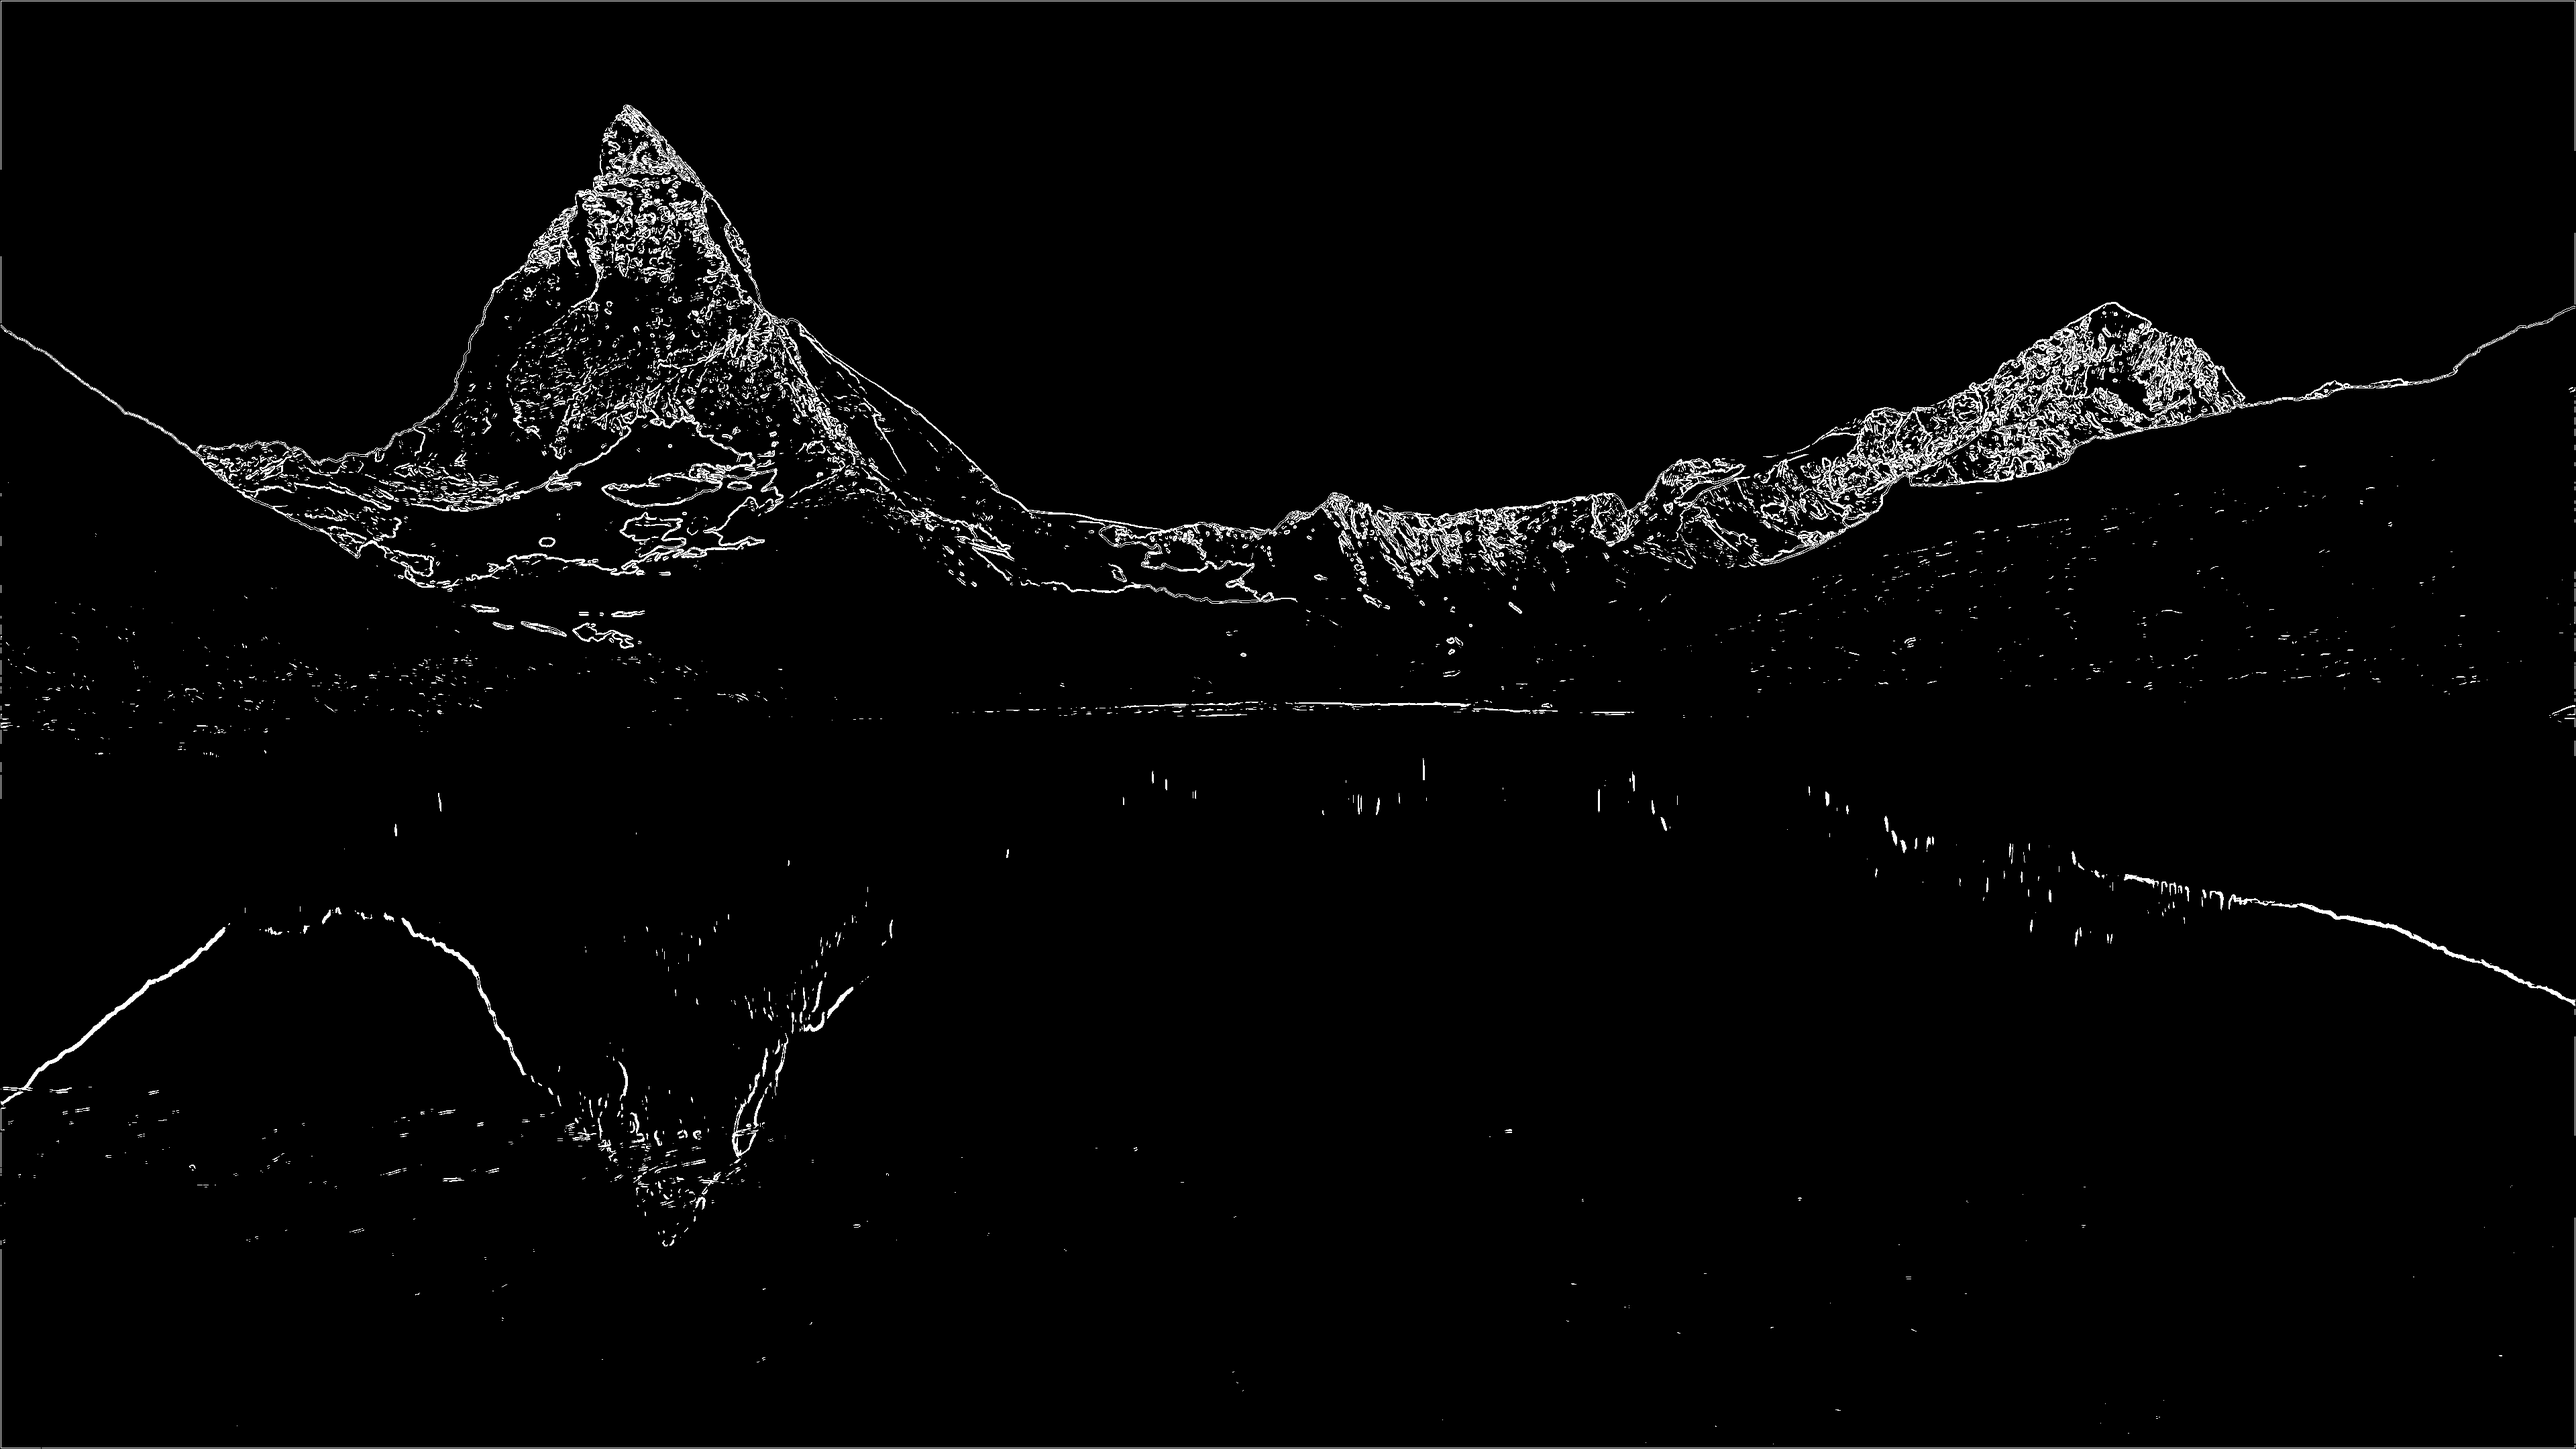
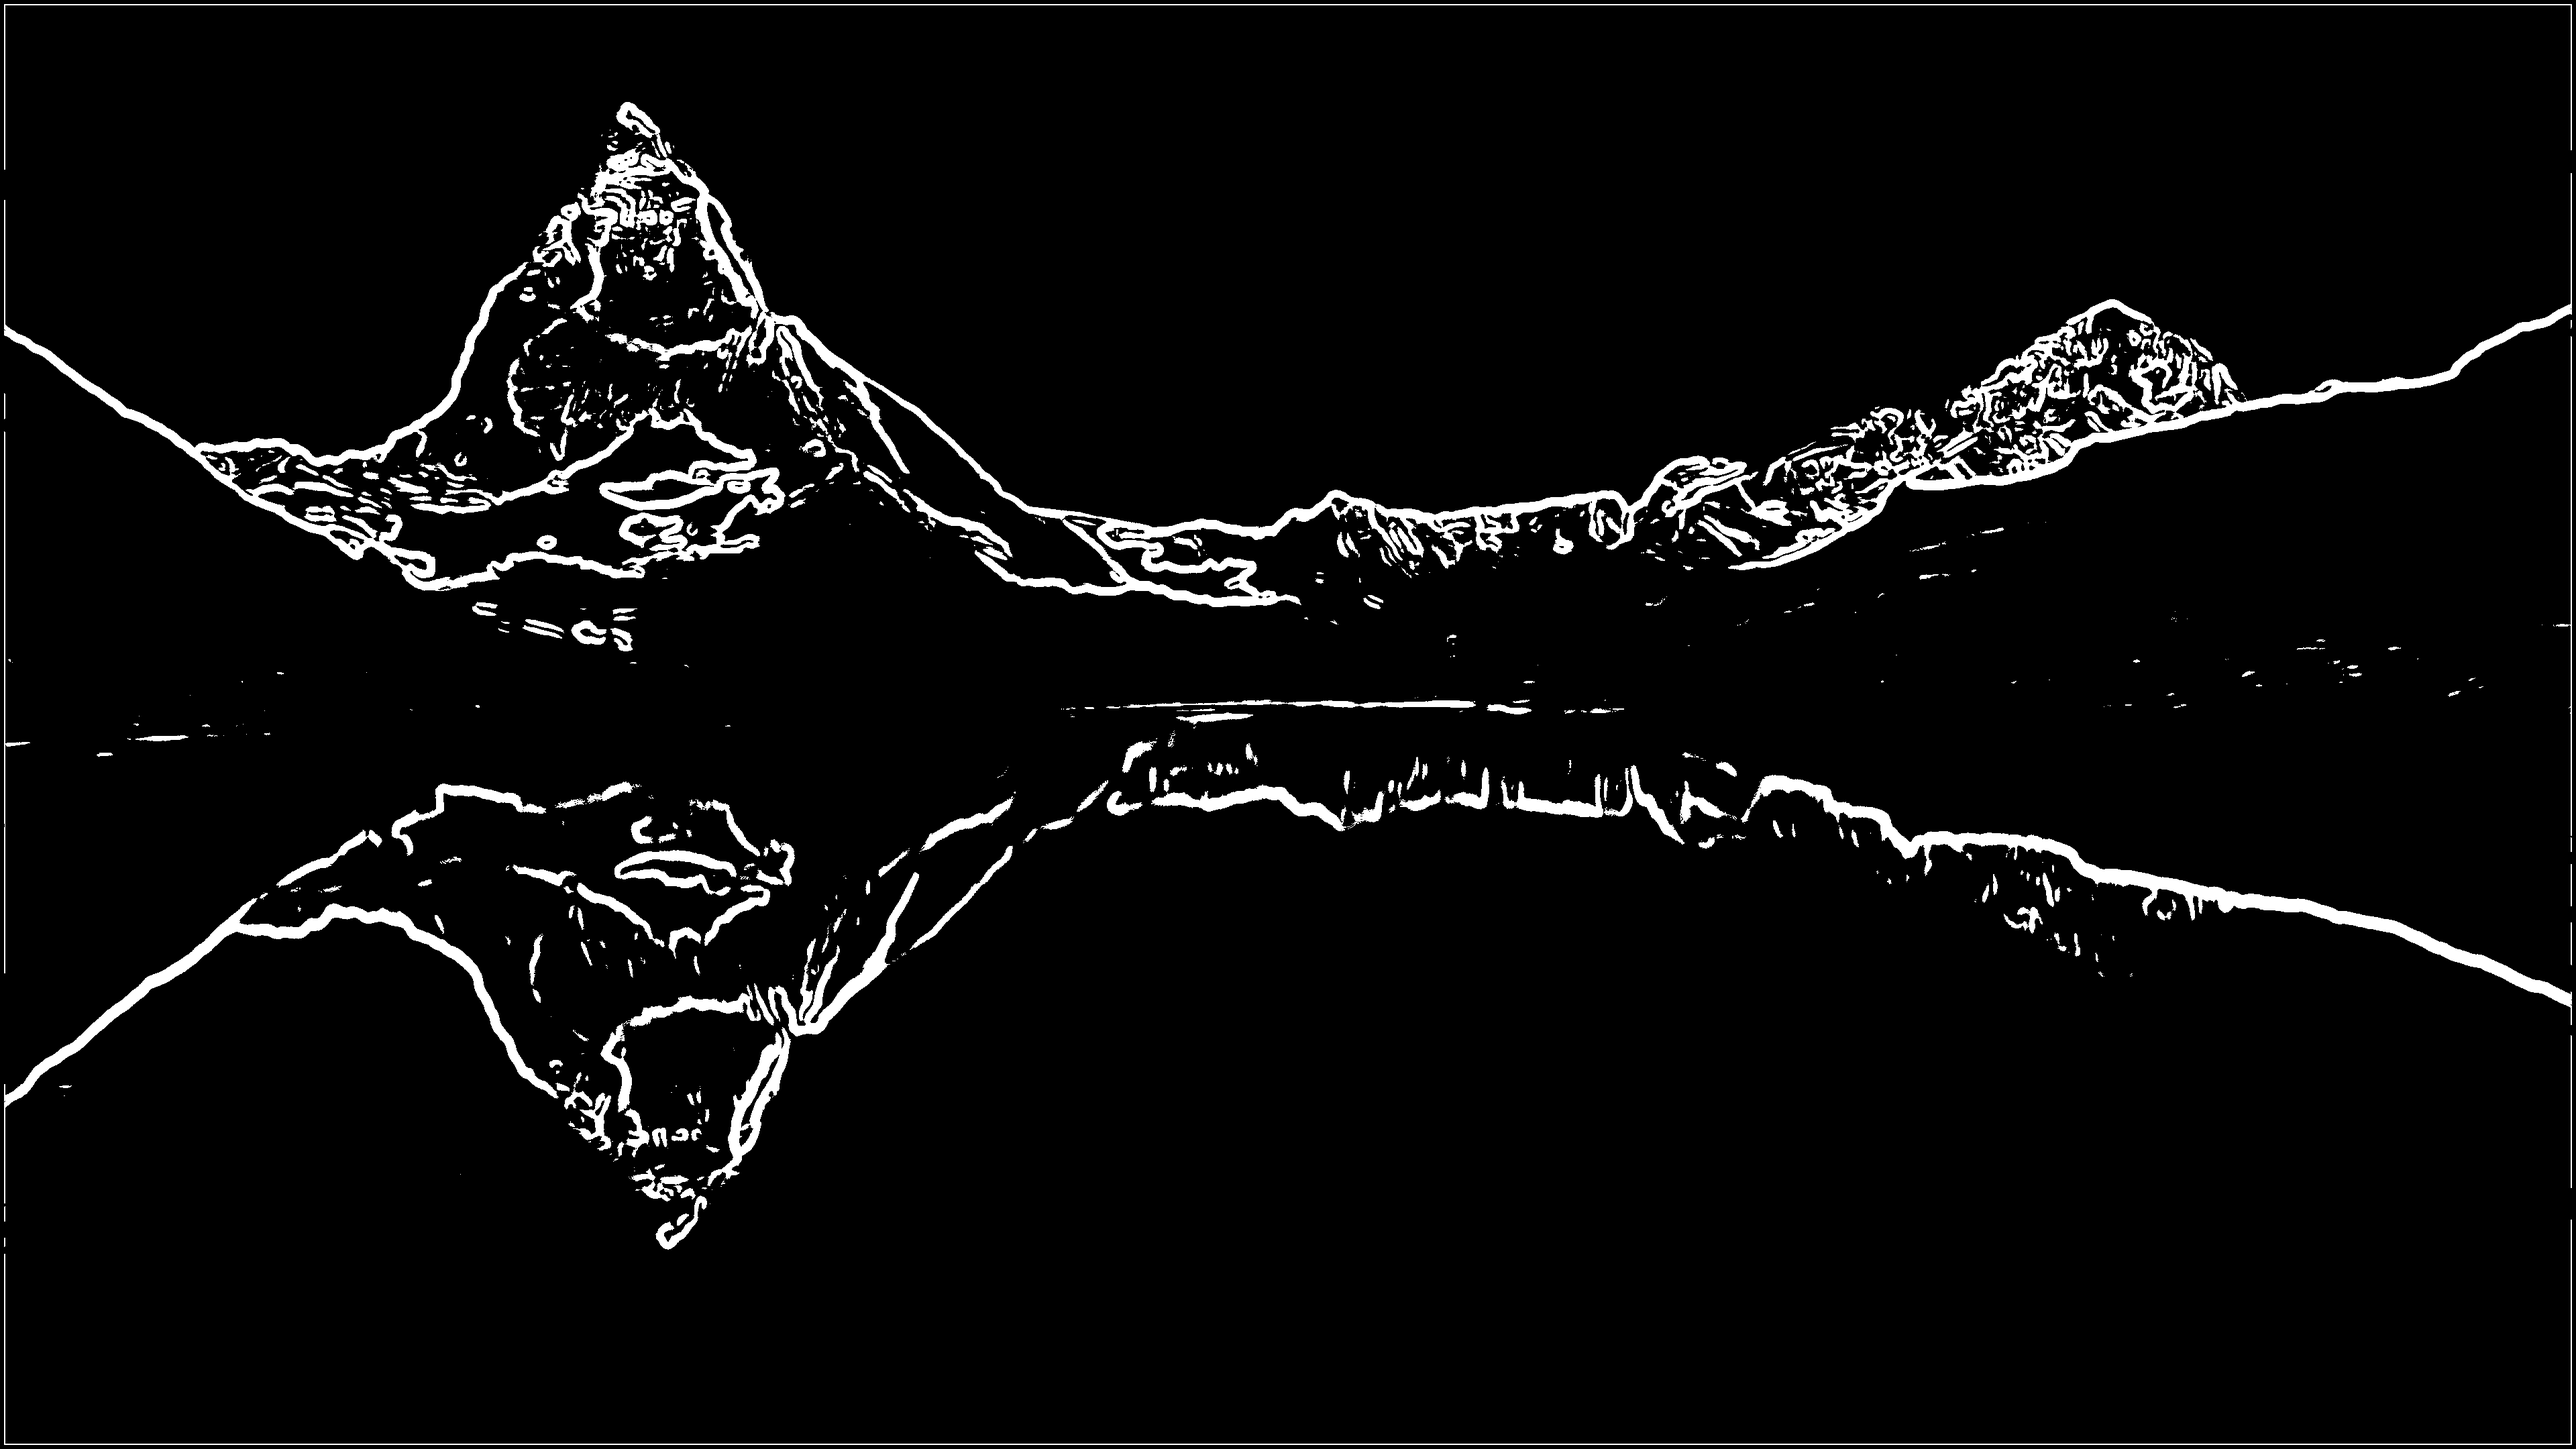
Redid Guassian Blur, Added new test image

diff --git a/test.cpp b/test.cpp
@@ -13,33 +13,33 @@ int x_kernal[3][3] = {{-1, 0, 1},
                       {-2, 0, 2},
                       {-1, 0, 1}};
 
-int y_kernal[3][3] = {{1, 2, 1}, 
-                      {0, 0, 0}, 
+int y_kernal[3][3] = {{1, 2, 1},
+                      {0, 0, 0},
                       {-1, -2, -1}};
 
 // Timer
 class Timer
 {
-    public:
-        std::chrono::time_point<std::chrono::high_resolution_clock> start, end;
-        std::string name;
+public:
+    std::chrono::time_point<std::chrono::high_resolution_clock> start, end;
+    std::string name;
 
-        Timer(string name = "Timer") : name(name)
-        {
-            start = std::chrono::high_resolution_clock::now();
-        }
+    Timer(string name = "Timer") : name(name)
+    {
+        start = std::chrono::high_resolution_clock::now();
+    }
 
-        void timerStart()
-        {
-            start = std::chrono::high_resolution_clock::now();
-        }
+    void timerStart()
+    {
+        start = std::chrono::high_resolution_clock::now();
+    }
 
-        void timerEnd()
-        {
-            end = std::chrono::high_resolution_clock::now();
-            std::chrono::duration<double> elapsed = end - start;
-            std::cout << name << ": " << elapsed.count() << " s\n";
-        }
+    void timerEnd()
+    {
+        end = std::chrono::high_resolution_clock::now();
+        std::chrono::duration<double> elapsed = end - start;
+        std::cout << name << ": " << elapsed.count() << " s\n";
+    }
 };
 
 Mat grayscale(const Mat &image)
@@ -78,7 +78,8 @@ Mat grayscale_mt(const Mat &image, int numThreads = 4)
 
     for (int i = 0; i < numThreads; ++i)
     {
-        threads.push_back(std::thread([=, &image, &grayImage]() {
+        threads.push_back(std::thread([=, &image, &grayImage]()
+        {
             int startRow = i * threadRows;
             int endRow = startRow + threadRows;
 
@@ -89,7 +90,7 @@ Mat grayscale_mt(const Mat &image, int numThreads = 4)
                     Vec3b intensity = image.at<Vec3b>(j, k);
                     grayImage.at<uchar>(j, k) = 0.299 * intensity.val[2] + 0.587 * intensity.val[1] + 0.114 * intensity.val[0];
                 }
-            }
+            } 
         }));
     }
 
@@ -104,8 +105,40 @@ Mat grayscale_mt(const Mat &image, int numThreads = 4)
     return grayImage;
 }
 
+double gaussian(int x, int y, double sigma)
+{
+    return exp(-(x * x + y * y) / (2 * sigma * sigma)) / (2 * M_PI * sigma * sigma);
+}
 
-Mat gaussianBlur(const Mat &image)
+// Function to generate a Gaussian kernel for blurring
+vector<vector<double>> guassianKernel(int size, double sigma)
+{
+    vector<vector<double>> kernel(size, vector<double>(size));
+    int center = size / 2;
+
+    double total = 0.0;
+    for (int i = 0; i < size; ++i)
+    {
+        for (int j = 0; j < size; ++j)
+        {
+            kernel[i][j] = gaussian(i - center, j - center, sigma);
+            total += kernel[i][j];
+        }
+    }
+
+    // Normalize the kernel
+    for (int i = 0; i < size; ++i)
+    {
+        for (int j = 0; j < size; ++j)
+        {
+            kernel[i][j] /= total;
+        }
+    }
+
+    return kernel;
+}
+
+Mat gaussianBlur(const Mat &image, int blurSize = 5, double sigma = 1)
 {
     Timer timer(" Blur");
 
@@ -113,21 +146,24 @@ Mat gaussianBlur(const Mat &image)
     int numCols = image.cols;
     Mat blurredImage = Mat_<uchar>::zeros(numRows, numCols);
 
-    for (int i = 1; i < numRows - 1; ++i)
-    {
-        for (int j = 1; j < numCols - 1; ++j)
-        {
-            int sum = 0;
+    // Create the kernel
+    vector<vector<double>> kernel = guassianKernel(blurSize, sigma);
 
-            for (int k = -1; k <= 1; ++k)
+    // Apply the kernel to the image
+    int halfBlurSize = blurSize / 2;
+    for (int y = halfBlurSize; y < image.rows - halfBlurSize; ++y)
+    {
+        for (int x = halfBlurSize; x < image.cols - halfBlurSize; ++x)
+        {
+            double sum = 0.0;
+            for (int ky = -halfBlurSize; ky <= halfBlurSize; ++ky)
             {
-                for (int l = -1; l <= 1; ++l)
+                for (int kx = -halfBlurSize; kx <= halfBlurSize; ++kx)
                 {
-                    sum += image.at<uchar>(i + k, j + l);
+                    sum += kernel[ky + halfBlurSize][kx + halfBlurSize] * image.at<uchar>(y + ky, x + kx);
                 }
             }
-
-            blurredImage.at<uchar>(i, j) = sum / 9;
+            blurredImage.at<uchar>(y, x) = sum;
         }
     }
 
@@ -135,7 +171,7 @@ Mat gaussianBlur(const Mat &image)
     return blurredImage;
 }
 
-Mat gaussianBlur_mt(const Mat &image, int numThreads = 4)
+Mat gaussianBlur_mt(const Mat &image, int blurSize = 5, double sigma = 1, int numThreads = 4)
 {
     Timer timer(" Blur (" + std::to_string(numThreads) + " threads)");
 
@@ -143,31 +179,35 @@ Mat gaussianBlur_mt(const Mat &image, int numThreads = 4)
     int numCols = image.cols;
     Mat blurredImage = Mat_<uchar>::zeros(numRows, numCols);
 
+    // Create the kernel
+    vector<vector<double>> kernel = guassianKernel(blurSize, sigma);
+
     // Create threads
     std::vector<std::thread> threads;
     int threadRows = numRows / numThreads;
 
     for (int i = 0; i < numThreads; ++i)
     {
-        threads.push_back(std::thread([=, &image, &blurredImage]() {
+        threads.push_back(std::thread([=, &image, &blurredImage]()
+        {
             int startRow = i * threadRows;
             int endRow = startRow + threadRows;
 
-            for (int j = startRow; j < endRow; ++j)
+            // Apply the kernel to the image
+            int halfBlurSize = blurSize / 2;
+            for (int y = startRow; y < endRow; ++y)
             {
-                for (int k = 1; k < numCols - 1; ++k)
+                for (int x = halfBlurSize; x < image.cols - halfBlurSize; ++x)
                 {
-                    int sum = 0;
-
-                    for (int l = -1; l <= 1; ++l)
+                    double sum = 0.0;
+                    for (int ky = -halfBlurSize; ky <= halfBlurSize; ++ky)
                     {
-                        for (int m = -1; m <= 1; ++m)
+                        for (int kx = -halfBlurSize; kx <= halfBlurSize; ++kx)
                         {
-                            sum += image.at<uchar>(j + l, k + m);
+                            sum += kernel[ky + halfBlurSize][kx + halfBlurSize] * image.at<uchar>(y + ky, x + kx);
                         }
                     }
-
-                    blurredImage.at<uchar>(j, k) = sum / 9;
+                    blurredImage.at<uchar>(y, x) = sum;
                 }
             }
         }));
@@ -182,7 +222,6 @@ Mat gaussianBlur_mt(const Mat &image, int numThreads = 4)
     timer.timerEnd();
     return blurredImage;
 }
-
 
 Mat sobelEdgeDetection(const Mat &image)
 {
@@ -229,11 +268,12 @@ Mat sobelEdgeDetection_mt(const Mat &image, int numThreads = 4)
     // Create threads
     std::vector<std::thread> threads;
     int threadRows = numRows / numThreads;
-    
+
     // Thread to calculate the vertical gradient
     for (int i = 0; i < numThreads; ++i)
     {
-        threads.push_back(std::thread([=, &image, &verticalGradient]() {
+        threads.push_back(std::thread([=, &image, &verticalGradient]()
+        {
             int startRow = i * threadRows;
             int endRow = startRow + threadRows;
 
@@ -253,14 +293,15 @@ Mat sobelEdgeDetection_mt(const Mat &image, int numThreads = 4)
 
                     verticalGradient.at<int>(j, k) = sum;
                 }
-            }
+            } 
         }));
     }
 
     // Threads to calculate the horizontal gradient
     for (int i = 0; i < numThreads; ++i)
     {
-        threads.push_back(std::thread([=, &image, &horizontalGradient]() {
+        threads.push_back(std::thread([=, &image, &horizontalGradient]()
+        {
             int startRow = i * threadRows;
             int endRow = startRow + threadRows;
 
@@ -280,7 +321,7 @@ Mat sobelEdgeDetection_mt(const Mat &image, int numThreads = 4)
 
                     horizontalGradient.at<int>(j, k) = sum;
                 }
-            }
+            } 
         }));
     }
 
@@ -294,7 +335,8 @@ Mat sobelEdgeDetection_mt(const Mat &image, int numThreads = 4)
     // Threads to calculate gradient magnitude
     for (int i = 0; i < numThreads; ++i)
     {
-        threads.push_back(std::thread([=, &edgeImage, &verticalGradient, &horizontalGradient]() {
+        threads.push_back(std::thread([=, &edgeImage, &verticalGradient, &horizontalGradient]()
+                                      {
             int startRow = i * threadRows;
             int endRow = startRow + threadRows;
 
@@ -304,8 +346,7 @@ Mat sobelEdgeDetection_mt(const Mat &image, int numThreads = 4)
                 {
                     edgeImage.at<uchar>(j, k) = std::sqrt(verticalGradient.at<int>(j, k) * verticalGradient.at<int>(j, k) + horizontalGradient.at<int>(j, k) * horizontalGradient.at<int>(j, k));
                 }
-            }
-        }));
+            } }));
     }
 
     // Join threads
@@ -313,7 +354,6 @@ Mat sobelEdgeDetection_mt(const Mat &image, int numThreads = 4)
     {
         t.join();
     }
-    
 
     timer.timerEnd();
     return edgeImage;
@@ -351,7 +391,8 @@ Mat threshold_mt(const Mat &image, int minValue, int maxValue, int numThreads = 
 
     for (int i = 0; i < numThreads; ++i)
     {
-        threads.push_back(std::thread([=, &image, &thresholdedImage]() {
+        threads.push_back(std::thread([=, &image, &thresholdedImage]()
+                                      {
             int startRow = i * threadRows;
             int endRow = startRow + threadRows;
 
@@ -361,8 +402,7 @@ Mat threshold_mt(const Mat &image, int minValue, int maxValue, int numThreads = 
                 {
                     thresholdedImage.at<uchar>(j, k) = (image.at<uchar>(j, k) > minValue) ? 255 : 0;
                 }
-            }
-        }));
+            } }));
     }
 
     // Join threads
@@ -391,14 +431,13 @@ int main()
     cout << endl << "Loaded '" << input_path << "'" << endl;
     cout << " Width: " << image.cols << endl;
     cout << " Height: " << image.rows << endl;
-    
 
     cout << endl << "Performing single-threaded edge detection:" << endl;
     Timer timer("Total time");
     Mat grayImage = grayscale(image);
-    Mat blurredImage = gaussianBlur(grayImage);
+    Mat blurredImage = gaussianBlur(grayImage, 15, 5);
     Mat edgeImage = sobelEdgeDetection(blurredImage);
-    Mat thresholdedImage = threshold(edgeImage, 90, 255);
+    Mat thresholdedImage = threshold(edgeImage, 25, 255);
     timer.timerEnd();
     cv::imwrite(output1_path, thresholdedImage);
     cout << "Image saved to '" << output1_path << "'" << endl;
@@ -406,9 +445,9 @@ int main()
     cout << endl << "Performing multi-threaded edge detection:" << endl;
     Timer timer2("Total time");
     Mat grayImage_mt = grayscale_mt(image, 4);
-    Mat blurredImage_mt = gaussianBlur_mt(grayImage_mt, 4);
+    Mat blurredImage_mt = gaussianBlur_mt(grayImage_mt, 15, 5, 8);
     Mat edgeImage_mt = sobelEdgeDetection_mt(blurredImage_mt, 4);
-    Mat thresholdedImage_mt = threshold_mt(edgeImage_mt, 90, 255, 4);    
+    Mat thresholdedImage_mt = threshold_mt(edgeImage_mt, 25, 255, 4);
     timer2.timerEnd();
     cv::imwrite(output2_path, thresholdedImage_mt);
     cout << "Image saved to '" << output2_path << "'" << endl << endl;
